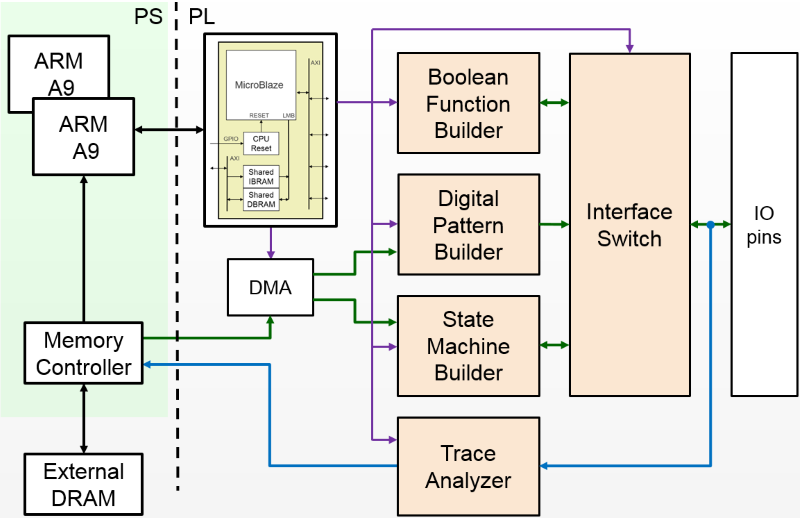
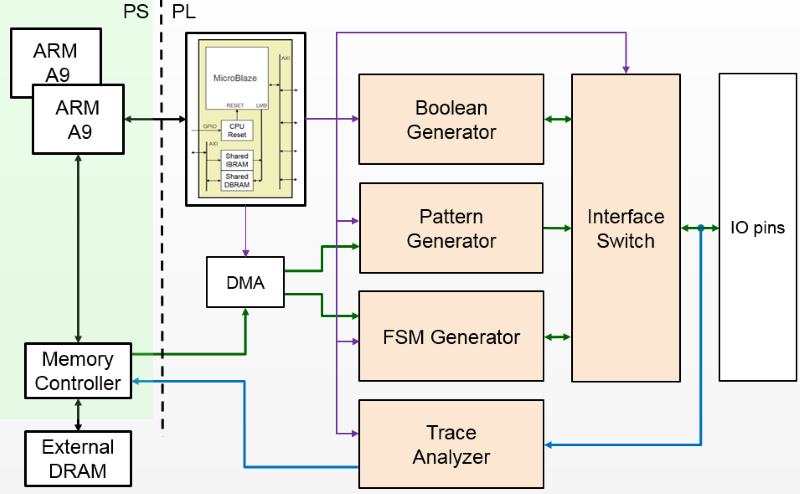
fixup! Doc v1.5 update

Changed region(s): [[0.0, 0.0, 1.0, 1.0], [0.2188, 0.8502, 0.25, 0.8806]]

diff --git a/docs/source/overlays/pynq_ip/trace_analyzer.rst b/docs/source/overlays/pynq_ip/trace_analyzer.rst
@@ -1,0 +1,106 @@
+Trace Analyzer
+==================
+
+   
+Introduction
+----------------
+
+On-chip debug allows FPGA resources to be used to monitor internal or external signals in a design for debug. The debug circuitry taps into signals in a design under test, and saves the signal data as the system is operating. The debug data is saved to on-chip memory, and can be read out later for offline debug and analysis. One of the limitations of traditional on-chip debug is that amount of local memory usually available on chip is relatively small. This means only a limited amount of debug data can be captured (typically a few Kilobytes).
+
+The on-chip debug concept has been extended to allow trace debug data to be saved to DDR memory. This allows more debug data to be captured. The data can then be analyzed using Python. 
+
+Trace Analyzer 
+-----------------
+A trace analyzer is included in the base overlay. It is connected to the pin connections of the Pmod ports and the Arduino ports. This allows it to monitor the signals to and from the FPGA pins. The trace analyzer has a connection to DDR memory where captured data will be stored.
+
+  
+8MB of DDR memory is available for the trace analyzer. The DDR memory is allocated from the kernel, and is fixed when the kernel is compiled. 
+
+Trace IOBs
+^^^^^^^^^^^^^
+
+The trace analyzer monitors the external PL Input/Output Blocks (IOBs) on the PMod and Arduino interfaces. The IOBs are tri-state. This means three internal signals are associated with each pin; an input (I), and output (O) and a tri-state signal (T). The Tri-state signal controls whether the pin is being used as a input or output. 
+
+The trace analyzer is connected to all 3 signals for each IOP (Pmod and Arduino).
+
+.. image:: ../../images/trace_analyzer.jpg
+   :align: center
+
+This allows the trace analyzer to read the tri-state, determine if the IOB is in input, or output mode, and read the appropriate trace data. 
+
+Supported protocols
+^^^^^^^^^^^^^^^^^^^^^^^
+
+The trace analyzer uses the `sigrok Python package <https://sigrok.org>`_. It can recognise different bus protocols and highlight and format the data appropriately. 
+
+Currently supported protocols are ``I2C`` and ``SPI``. 
+
+Trace analyzer operation
+^^^^^^^^^^^^^^^^^^^^^^^^^
+
+The trace analyzer is instantiated with the interface, pins to monitor and labels, the data protocol, and sample rate defined. 
+                      
+When triggered or started, the trace analyzer captures all data on the interface port.
+
+The data can then be formatted based on the specified protocol and displayed in a notebook. 
+
+Trace analyzer example
+----------------------
+
+To use the trace analyzer, instantiate the TraceAnalyzer class, specifying the interface it is connected to, the pins to monitor, the protocol, and the sample rate. 
+
+.. code-block:: Python
+
+   from pynq.drivers import TraceAnalyzer
+      tr_buf = TraceAnalyzer(PMODA,pins=[2,3],probes=['SCL','SDA'],
+                      protocol="i2c",rate=1000000)
+                      
+The trace analyzer runs at 100 MHz. The sample rate is the number of samples stored out of every sample captured. E.g. rate = 1 will store samples at 100 Msps. rate = 2 will store samples at 83 Msps etc.  
+
+.. code-block :: console
+    
+    Samples captured = 100 MHz/rate
+
+
+Once you are ready to start collecting data, start the trace analyzer.
+   
+.. code-block:: Python
+  
+   # Start the trace analyzer
+   tr_buf.start()
+
+Once you are finished collecting data, stop the trace analyzer.
+
+.. code-block:: Python
+
+   # Stop the trace analyzer
+   tr_buf.stop()
+
+
+The data is first parsed into a .csv file. The start and stop positions are provided to select the region of interest. The .csv file is then decoded into a .pd file 
+
+.. code-block:: Python
+
+   # Set up samples
+   start = 500
+   stop = 3500
+
+   # Parsing and decoding samples
+   tr_buf.parse("i2c_trace.csv",start,stop)
+   tr_buf.decode("i2c_trace.pd")
+
+The first sample is stored in location 1, so the starting sample to display must be equal to 1 or more. The end sample to display must be less than the total number of samples collected. 
+
+
+The data can be displayed in a notebook. This is done using the Python WaveDrom package. 
+
+.. code-block:: Python
+
+    tr_buf.display()
+
+
+Example notebooks
+-----------------------
+
+There are two notebooks available in the example notebooks directory in the Jupyter home area showing how to use the trace analyzer; `trace buffer_i2c.ipynb <https://github.com/Xilinx/PYNQ/blob/master/Pynq-Z1/notebooks/examples/tracebuffer_i2c.ipynb>`_ and `trace buffer_spi.ipynb <https://github.com/Xilinx/PYNQ/blob/master/Pynq-Z1/notebooks/examples/tracebuffer_spi.ipynb>`_. One shows an IIC example, and the other shows a SPI example. 
+

diff --git a/docs/source/overlays/logictools_overlay/logictools_overlay_overview.rst b/docs/source/overlays/logictools_overlay/logictools_overlay_overview.rst
@@ -71,7 +71,7 @@ Logictools Generators
 
    .. code-block:: Python
 
-      builders = {BFB, SMB, DPB}
+      generators = {BFB, SMB, DPB}
 
 Each generator has the following methods:
 
@@ -98,15 +98,15 @@ The Boolean Generator is initially set to <>
 Setup 
 ^^^^^^^^^^^^^^^^^^
 
-Each builder must be configured using the ``setup()`` method before it can be used. This defines a configuration for the block, and the configuration for the Interface Switch to connect the external IO to the builder. Note that the configuration is defined, but the IO are not connected during setup. 
+Each block must be configured using the ``setup()`` method before it can be used. This defines a configuration for the block, and the configuration for the Interface Switch to connect the external IO to the builder. Note that the configuration is defined, but the IO are not connected during setup. 
 
 
 Running
 ^^^^^^^^^^^^^^^^^^
 
-Once a builder has been setup, it can be run. The external IO are connected to the builder though the interface switch, and the hardware block will start operating. 
+Once a block has been setup, it can be run. The external IO are connected to the block though the interface switch, and the hardware block will start operating. 
 
-Running will start the builder running in continuous mode by default. This is the only mode for the Boolead Generator. 
+Running will start the block running in continuous mode by default. This is the only mode for the Boolead Generator. 
 
 In continuous mode, the Pattern Generator generates its pattern continuously, looping back to the start when it reaches the end of the pattern. The FSM Generator will continue to run until it is stopped. 
 
@@ -124,7 +124,7 @@ The FSM Generator can be single stepped indefinitely.
 Stopping
 ^^^^^^^^^^^^^^^^^^
 
-If a builder is running, it must be stopped before running or stepping it again. Once a builder is stopped, its outputs are disconnected from the IO.
+If a block is running, it must be stopped before running or stepping it again. Once a builder is stopped, its outputs are disconnected from the IO.
 
 Trace
 ^^^^^^^^^^^^^^^^^^^
@@ -236,10 +236,10 @@ Example
    
 display_graph()
 
-Boolean Function Builder
+Boolean Generator
 -------------------------------------------
 
-The Boolead Generator supports boolean functions of one up to five inputs on each output pin. AND, OR, NOT, and XOR operators are supported.
+The Boolean Generator supports boolean functions of one up to five inputs on each output pin. AND, OR, NOT, and XOR operators are supported.
 
 Example 
 ^^^^^^^^^^^^^^^^^^^^^
@@ -253,7 +253,7 @@ The following list defines four combinatorial functions on pins D8-11, which are
 
    from logictools import BoolGenerator
 
-   bf_builder = BoolGenerator
+   bg = BoolGenerator
    function_specs = ['D3 = D0 ^ D1 ^ D2',
                    'D7 = D3 & D4 & D5']
                    
@@ -270,22 +270,22 @@ The function configurations can also be labelled:
                    
    function_specs['f3'] = 'D11 = D12 + D14'
 
-Once the expressions have been defined, they can be passed to the BooleanBuilder function.
+Once the expressions have been defined, they can be passed to the BooleanGenerator function.
 
 .. code-block:: Python
 
-   bf_builder.setup(function_specs)
+   bg.setup(function_specs)
 
 
 .. code-block:: Python
 
-   bf_builder.run() # run continuously
+   bg.run() # run continuously
 
 To reconfigure the Boolead Generator, or to disconnect the IO pins, stop it. 
 
 .. code-block:: Python
 
-   bf_builder.stop()
+   bg.stop()
 
 
 Trace Analyzer

diff --git a/docs/source/overlays/pynq_ip/audio.rst b/docs/source/overlays/pynq_ip/audio.rst
@@ -2,17 +2,44 @@
 Pynq-Z1 audio Subsystem
 ============================
 
-The Pynq-Z1 audio subsystem consists of an IP block to drive the PWM mono output, and another block to read the PDM input from the MIC.  
+The Pynq-Z1 has a  3.5mm mono audio jack for audio-out, and an omnidirectional MEMS microphone integrated on the board for audio-in. 
+
+The audio out needs to be driven by a PWM signal, and the digitized audio from the mic is in the pulse density modulated (PDM) format.
+
+For more information on the audio subsystem see the relevant sections in the `PYNQ-Z1 reference guide <https://reference.digilentinc.com/reference/programmable-logic/pynq-z1/reference-manual>`_ 
+
+The audio subsystem int he PYNQ-Z1 base overlay consists of an IP block to drive the PWM mono output, and another block to read the PDM input from the MIC.  
    
 .. image:: ../../images/audio_subsystem.png
    :align: center
    
+The PYNQ Audio module includes the following methods:
+
+* ``bypass_start()`` - Stream audio controller input directly to output.
+* ``bypass_stop()`` - Stop streaming input to output directly.
+* ``load(file)`` - Loads file into internal audio buffer.
+* ``play()`` - Play audio buffer via audio jack.
+* ``record(seconds)`` - Record data from audio controller to audio buffer.
+* ``save(file)`` - Save audio buffer content to a file.
+
+For more information on the PYNQ audio class, run ``help()`` on the audio instance in the overlay.
+
+E.g. 
+
+   .. code-block:: Python
+      
+      from pynq import Overlay
+      base = Overlay("base.bit")
+      audio = base.audio
+      help(audio)
+ 
+Audio 
 Examples
 ------------
 
-See the example notebooks on the board in the directory:
+See the example notebooks on the board in the following directory:
 
-.. code-block:: console
+   .. code-block:: console
 
-   base\audio
+      base\audio\audio_playback.ipynb
 

diff --git a/docs/source/overlays/pynq_ip/microblaze_subsystem.rst b/docs/source/overlays/pynq_ip/microblaze_subsystem.rst
@@ -1,3 +1,33 @@
 
 MicroBlaze subsystem
 ============================
+
+A MicroBlaze subsystem in PYNQ consists of a MicroBlaze, BRAM and controller, Interrupt controller, an AXI GPIO and d flip flop, and AXI interconnect. 
+
+.. image:: ../../images/mb_subsystem.png
+   :align: center
+
+The Interrupt controller manages interrupts for peripherals local to the MicroBlaze. The AXI GPIO is used to signal an interrupt from the MicroBlaze to the PS interrupt controller. The MicroBlaze subsystem can be expanded, for example, by adding more periperals to the AXI interconnect. 
+
+The MicroBlaze subsystem can be controlled by the PynqMicroblaze module. 
+
+The class is instantiated with the name of the MicroBlaze subsystem and program to run. 
+
+
+.. code-block :: Python
+
+   from pynq import Overlay
+   from pynq.lib import PynqMicroblaze
+   
+   base = Overlay("base.bit")
+   mb = PynqMicroblaze(base.pmoda._mb_info, "prog.bin")
+
+The includes the following methods:
+
+* ``program()`` - Writes the program specified during class instantiation to the shared memory of Microblaze.
+* ``read(offset, length=1)`` - Reads data from the shared memory of Microblaze.
+* ``reset()`` - Reset the Microblaze to stop it from running.
+* ``run()`` - Start the Microblaze to run program loaded.
+* ``write(offset, data)`` - Write data into the shared memory of the Microblaze.
+
+

diff --git a/docs/source/overlays/pynq_ip_index.rst b/docs/source/overlays/pynq_ip_index.rst
@@ -8,7 +8,7 @@ PYNQ IP
    pynq_ip/audio
    pynq_ip/video
    pynq_ip/microblaze_subsystem
-   pynq_ip/configurable_logic_builder
-   pynq_ip/pattern_builder
-   pynq_ip/finite_state_machine_builder
-   pynq_ip/tracebuffer
+   pynq_ip/boolean_generator
+   pynq_ip/pattern_generator
+   pynq_ip/fsm_generator
+   pynq_ip/trace_analyzer

diff --git a/docs/source/changelog.rst b/docs/source/changelog.rst
@@ -32,6 +32,8 @@ Documentation updated:
       
    * Video API has been changed to support to support new video architecture, Numpy objects, and color space/pixel width conversion 
    * New PynqMicroblaze module to allow control of a MicroBlaze subsystem
+   * New AxiGPIO driver
+   
    
 * New Python Packages 
 
